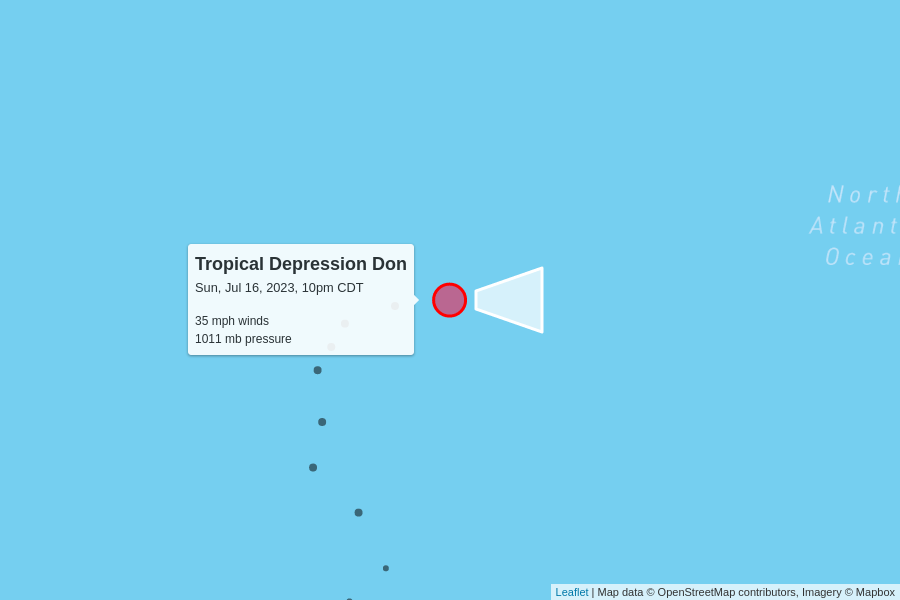
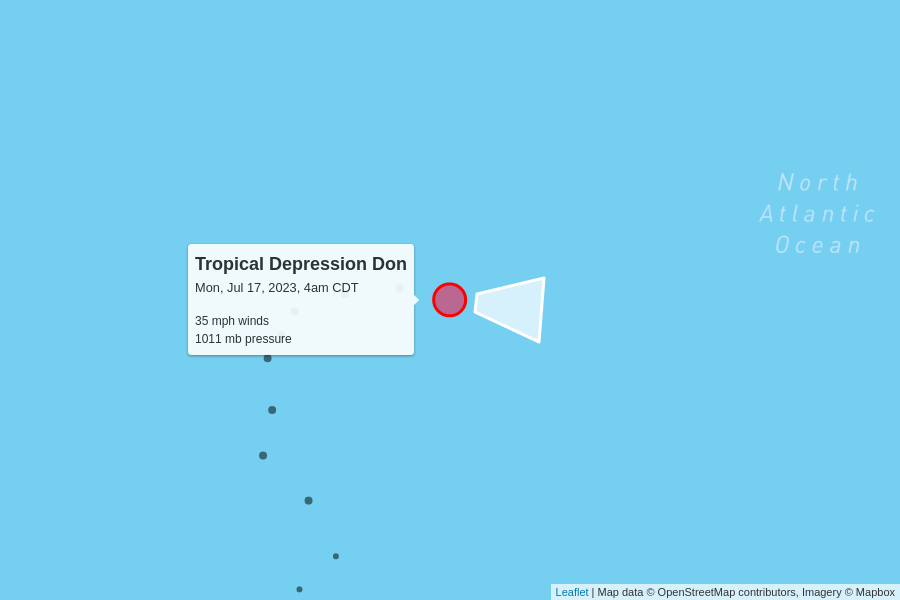
automatic update

diff --git a/docs/index.html b/docs/index.html
@@ -100,7 +100,7 @@
         <td colspan="6" class="storm category-0" >
           <h2>
             Tropical Depression Don
-            <p class="updated">last updated <span data-time>2023-07-17T03:00:00.000Z</span></p>
+            <p class="updated">last updated <span data-time>2023-07-17T09:00:00.000Z</span></p>
           </h2>
         </td>
       </tr>
@@ -118,9 +118,9 @@
         <td>35 mph</td>
         <td>1011 mb</td>
         <td>
-          10 mph to the east
+          9 mph to the east
           <br/>
-          <span style="display: inline-block; font-size: 1.5em; transform: rotate(90deg);">↑</span>
+          <span style="display: inline-block; font-size: 1.5em; transform: rotate(95deg);">↑</span>
         </td>
         <td><a href="https://raw.githubusercontent.com/mgwalker/atlantic-hurricanes/main/data/csv/AL052023.csv">AL052023.csv</a></td>
         <td><a href="https://www.nhc.noaa.gov/archive/2023/DON.shtml?">NHC advisories</a></td>
